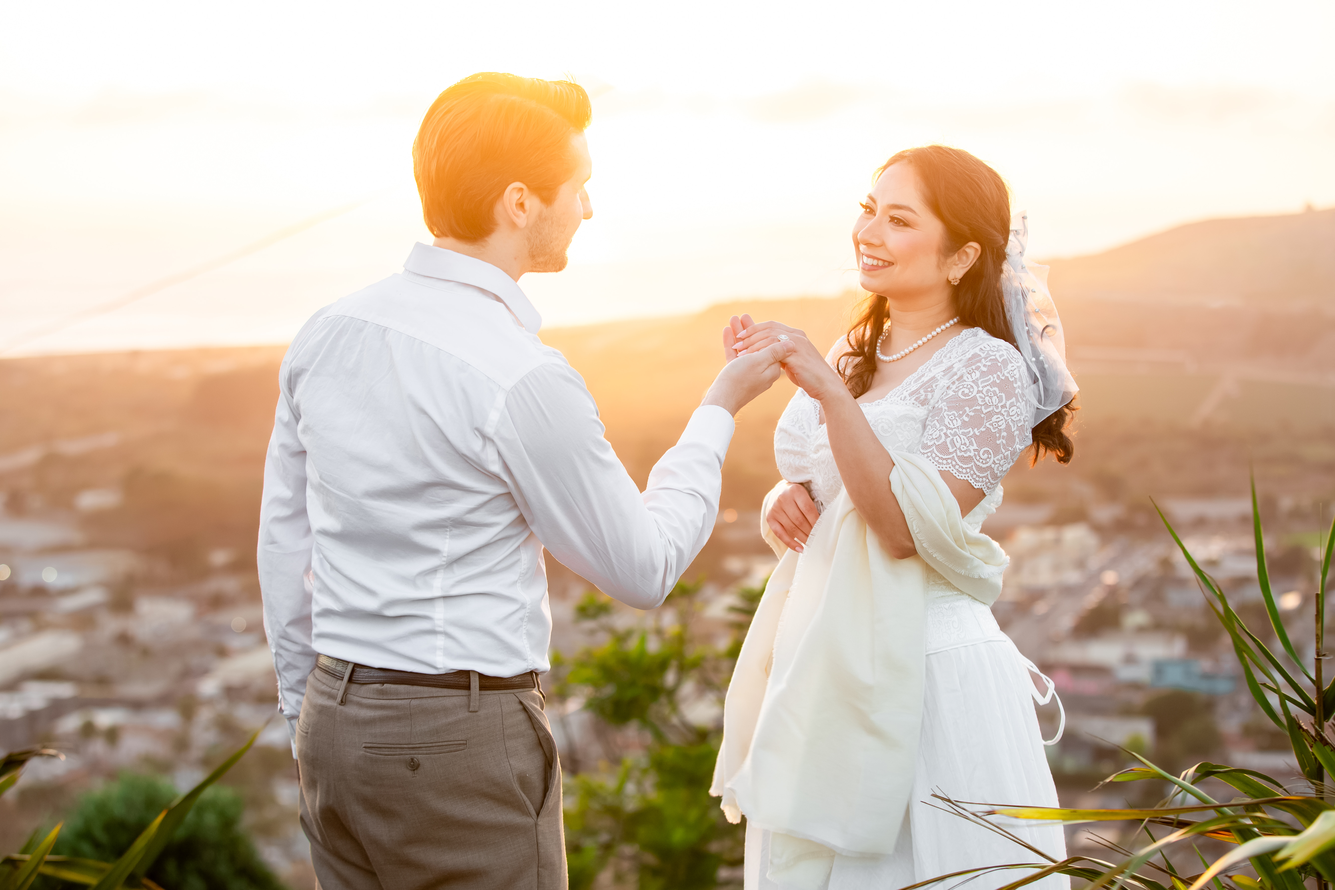
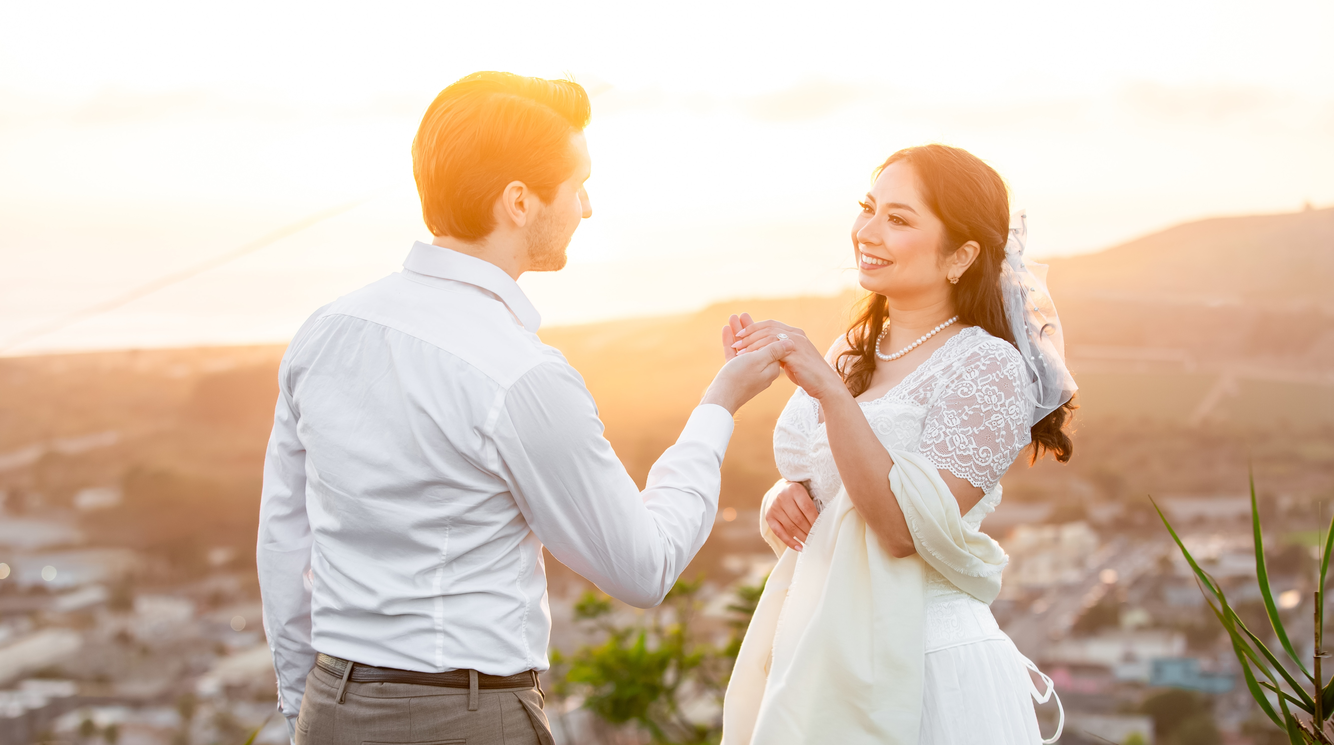
Adjusted text for readability. Minor cropping of hero image.

diff --git a/rsvp.html b/rsvp.html
@@ -25,7 +25,8 @@
         <div class="centered-content">
             <p style="font-size: 1.2rem; margin-bottom: 2rem;">
                 We hope you can join us for our special day! Please reply to us as soon as possible with your 
-                preferred mailing address so we can send an official invitation for the wedding.
+                preferred mailing address so we can send an official invitation for the wedding when the time
+                comes.
             </p>
         </div>
 
@@ -51,13 +52,13 @@
                     
                     <div style="background-color: white; padding: 1.5rem; border-radius: 4px; border-left: 4px solid var(--primary-color); margin-top: 1rem;">
                         <p><strong>To:</strong> holmrewers@gmail.com</p>
-                        <p><strong>Subject:</strong> Request our Invite - [Your Names]</p>
+                        <p><strong>Subject:</strong> Invitation Address - [Your Names]</p>
                         
                         <div style="margin-top: 1.5rem; line-height: 1.8;">
                             <p>Dear Jackie and Patrick,</p>
                             
                             <p style="margin-top: 1rem;">
-                                <strong>Attendance Status:</strong> [We joyfully accept / We regretfully decline]
+                                <strong>Attendance Status:</strong> [We currently plan to attend / We do not currently plan to attend]
                             </p>
                             
                             <p style="margin-top: 1rem;">
@@ -67,23 +68,9 @@
                             </p>
                             
                             <p style="margin-top: 1rem;">
-                                <strong>Number of Guests Attending:</strong> [Number]
-                            </p>
-                            
-                            <p style="margin-top: 1rem;">
                                 <strong>Mailing Address:</strong><br>
                                 [Street Address]<br>
                                 [City, State ZIP]
-                            </p>
-                            
-                            <p style="margin-top: 1rem;">
-                                <strong>Dietary Restrictions/Allergies:</strong><br>
-                                [Please list any dietary restrictions, food allergies, or special meal requirements]
-                            </p>
-                            
-                            <p style="margin-top: 1rem;">
-                                <strong>Song Request (Optional):</strong><br>
-                                [What song will get you on the dance floor?]
                             </p>
                             
                             <p style="margin-top: 1rem;">
@@ -94,7 +81,7 @@
                     </div>
                     
                     <div style="text-align: center; margin-top: 2rem;">
-                        <a href="mailto:holmrewers@gmail.com?subject=Saving the Date%20-%20[Your%20Names]&body=Dear%20Sarah%20and%20Michael,%0D%0A%0D%0AAttendance%20Status:%20[We%20joyfully%20accept%20/%20We%20regretfully%20decline]%0D%0A%0D%0AGuest%20Name(s):%0D%0A[Full%20name%20of%20guest%201]%0D%0A[Full%20name%20of%20guest%202,%20if%20applicable]%0D%0A%0D%0ANumber%20of%20Guests%20Attending:%20[Number]%0D%0A%0D%0AMailing%20Address:%0D%0A[Street%20Address]%0D%0A[City,%20State%20ZIP]%0D%0A%0D%0ADietary%20Restrictions/Allergies:%0D%0A[Please%20list%20any%20dietary%20restrictions,%20food%20allergies,%20or%20special%20meal%20requirements]%0D%0A%0D%0ASong%20Request%20(Optional):%0D%0A[What%20song%20will%20get%20you%20on%20the%20dance%20floor?]%0D%0A%0D%0AWith%20love,%0D%0A[Your%20names]" class="button">Click to Open Email Template</a>
+                        <a href="mailto:holmrewers@gmail.com?subject=Invitation%20Address%20-%20[Your%20Names]&body=Dear%20Jackie%20and%20Patrick,%0D%0A%0D%0AAttendance%20Status:%20[We%20currently%20plan%20to%20attend/We%20do%20not%20currently%20plan%20to%20attend]%0D%0A%0D%0AGuest%20Name(s):%0D%0A[Full%20name%20of%20guest%201]%0D%0A[Full%20name%20of%20guest%202,%20if%20applicable]%0D%0A%0D%0AMailing%20Address:%0D%0A[Street%20Address]%0D%0A[City,%20State%20ZIP]%0D%0A%0D%0AWith%20love,%0D%0A[Your%20names]" class="button">Click to Open Email Template</a>
                     </div>
                 </div>
             </div>
@@ -105,22 +92,13 @@
             
             <div class="card">
                 <h3>1. Attendance Status</h3>
-                <p>Please let us know if you'll be able to join us or if you must decline. We understand that circumstances change, and we appreciate any response.</p>
+                <p>Please let us know if you currently to join us or if you must decline. We understand that circumstances change, and we appreciate any response.</p>
                 
                 <h3 style="margin-top: 1.5rem;">2. Full Names</h3>
                 <p>Please provide the full names of all guests attending from your party. This helps us create accurate place cards and seating arrangements.</p>
                 
-                <h3 style="margin-top: 1.5rem;">3. Number of Guests</h3>
-                <p>Confirm the total number of people attending from your invitation. Please only include those listed on your save the date.</p>
-                
-                <h3 style="margin-top: 1.5rem;">4. Mailing Address</h3>
+                <h3 style="margin-top: 1.5rem;">3. Mailing Address</h3>
                 <p>We need your current mailing address to send thank-you notes and any future correspondence.</p>
-                
-                <h3 style="margin-top: 1.5rem;">5. Dietary Restrictions</h3>
-                <p>Please inform us of any dietary restrictions, food allergies, or special meal requirements. We want to ensure everyone can enjoy the meal! Common restrictions include vegetarian, vegan, gluten-free, dairy-free, nut allergies, shellfish allergies, etc.</p>
-                
-                <h3 style="margin-top: 1.5rem;">6. Song Request (Optional)</h3>
-                <p>Help us create the perfect playlist! Let us know what song will get you out on the dance floor.</p>
             </div>
         </section>
 
@@ -128,7 +106,6 @@
             <div class="warning-box">
                 <h3 style="margin-top: 0;">Important Reminders</h3>
                 <ul style="margin-left: 2rem; line-height: 1.8;">
-                    <li><strong>Guest Count:</strong> Please only include guests specifically named on your invitation</li>
                     <li><strong>Changes:</strong> If your plans change after you send your email, please let us know as soon as possible</li>
                     <li><strong>Questions:</strong> If you have any questions about your invitation or need clarification, please 
                         reach out to us
@@ -147,20 +124,6 @@
                 </p>
                 <p style="text-align: center; margin-top: 1rem;">
                     Even if you can't be there in person, you'll be in our hearts on our special day.
-                </p>
-            </div>
-        </section>
-
-        <section class="content-section">
-            <div class="info-box">
-                <h3 style="margin-top: 0;">After Your Email</h3>
-                <p>
-                    Once we receive your confirmation, we will send you a confirmation email. As the wedding date approaches, 
-                    we will send the official wedding invitation, additional details about the ceremony, reception timeline, 
-                    and any other important information.
-                </p>
-                <p style="margin-top: 1rem;">
-                    If you don't receive a confirmation within two weeks, please reach out to ensure we received your response.
                 </p>
             </div>
         </section>

diff --git a/dress-code.html b/dress-code.html
@@ -26,10 +26,10 @@
         
         <div class="centered-content">
             <p style="font-size: 1.2rem; margin-bottom: 3rem;">
-                We request <strong>formal attire</strong> for our wedding celebration. Think elegant cocktail 
-                dresses, suits, and dress shoes. We want everyone to feel comfortable and confident while 
+                We request <strong>cocktail to formal attire</strong> for our wedding celebration. Think elegant 
+                cocktail dresses, suits, and dress shoes. We want everyone to feel comfortable and confident while 
                 looking their best! If you are unsure of what cocktail to formal attire looks like (because 
-                honestly, who does), <a href=https://www.theknot.com/content/wedding-guest-attire-cheat-sheet>The Knot</a> 
+                honestly, who does), <a href="https://www.theknot.com/content/wedding-guest-attire-cheat-sheet" target="_blank" and rel="noopener noreferrer">The Knot</a> 
                 has a great resource to look at. 
             </p>
         </div>
@@ -103,19 +103,19 @@
             <div class="gallery">
                 <div class="gallery-item appropriate">
                     <img src="appropriate-mask-1.png" alt="Appropriate mask - White and blue formal mask with handle">
-                    <p>Formal colorful masks with or without handles</p>
+                    <p><strong>Appropriate</strong>: Formal colorful masks with or without handles</p>
                 </div>
                 <div class="gallery-item appropriate">
                     <img src="appropriate-mask-2.png" alt="Appropriate mask - Lacy black mask">
-                    <p>Simple but formal masks that can be tied or secured with elastic</p>
+                    <p><strong>Appropriate</strong>: Simple but formal masks that can be tied or secured with elastic</p>
                 </div>
                 <div class="gallery-item inappropriate">
                     <img src="inappropriate-mask-1.png" alt="Inappropriate mask - Phantom mask">
-                    <p>A Phantom mask</p>
+                    <p><strong>Inappropriate</strong>: A Phantom mask</p>
                 </div>
                 <div class="gallery-item inappropriate">
                     <img src="inappropriate-mask-2.png" alt="Inappropriate mask - costume mask">
-                    <p>Any other costume mask</p>
+            <p><strong>Inappropriate</strong>: Any other costume mask</p>
                 </div>
             </div>
         </section>

diff --git a/qa.html b/qa.html
@@ -75,7 +75,7 @@
             <div class="qa-answer">
                 We are so excited to celebrate this special day surrounded by our family and friends. Only those formally invited 
                 on your wedding invitation can be accommodated. If you have a plus one, it will be noted on your personal 
-                Save the Date.
+                invitation.
             </div>
         </div>
 
@@ -86,7 +86,7 @@
                 notice means you are still able to share our big day.</p>
 
                 <p>We are hoping to have a more causal gathering the day before to have a chance to all actually hang out. If 
-                we do have a relaxed get together the the Friday before the wedding, we would love to have anyone under 21 
+                we do have a relaxed get together the Friday before the wedding, we would love to have anyone under 21 
                 join us if they are able.</p>
             </div>
         </div>
@@ -94,9 +94,9 @@
         <div class="qa-item">
             <div class="qa-question">Where can I stay?</div>
             <div class="qa-answer">
-                <p>We have a hotel block with the Palm Garden Hotel in Thousand Oaks. This hotel is about 15 minutes 
-                from the venue. If you would like more information about the hotel block, please 
-                <a href=hotels.html>click here!</a> Staying at the Palm Garden Hotel is not required. Please use 
+          <p>We have a hotel block with the <a href="https://www.palmgardenhotel.com" target="_blank" and rel="noopener noreferrer">Palm Garden Hotel</a> in Thousand Oaks. This hotel is about 15 minutes 
+                from the venue. If you would like more information about the hotel block, please <a href=hotels.html>click here!</a></p> 
+                <p>Staying at the Palm Garden Hotel is not required. Please use 
                 Underwood Family Farms' address, 3370 Sunset Valley Rd, Moorpark, CA 93021, as a reference, if you 
                 are interested in other accommodations.</p>
 

diff --git a/hotels.html b/hotels.html
@@ -27,7 +27,8 @@
         <div class="centered-content">
             <p style="font-size: 1.2rem; margin-bottom: 3rem;">
                 You are welcome to choose any housing accomodation that suits you. However, for your convenience, we have secured 
-                a hotel block with The Palm Garden Hotel to provide quality accomodations at a better rate.
+                a hotel block with The Palm Garden Hotel to provide quality accomodations at a better rate. Please note that the
+                provided rates do not include tax.
             </p>
         </div>
 
@@ -58,6 +59,7 @@
                 
                 <div style="margin-top: 1.5rem; margin-bottom: 2rem">
                     <a href="tel:805716429" class="button" style="margin-right: 1rem;">Call to Book</a>
+                    <a href="https://www.palmgardenhotel.com" target="_blank" and rel="noopener noreferrer" class="button" style="margin-right: 1rem;">Visit Website</a>
                 </div>
 
                 <div class="iframe-container">
@@ -87,7 +89,7 @@
                 <ul style="margin-left: 2rem; line-height: 1.8; margin-top: 1rem;">
                     <li><strong>29th Annual Fall Harvest Festival:</strong> Walk the corn maze, carve pumpkins, and enjoy many other great seasonal activities</li>
                     <li><strong>Oceanside Fun:</strong> Enjoy one of the many beautiful beaches on the Southern California coastline</li>
-                    <li><strong>Haunted House:</strong> Get into the holiday spirit with one of the best haunted houses in SoCal</li>
+            <li><strong>Haunted House:</strong> Get into the holiday spirit by visiting the award-winnning <a href="https://rothauntedhouse.com" target="_blank" and rel="noopener noreferrer">Reign of Terror</a> haunted house</li>
                 </ul>
             </div>
         </section>

diff --git a/registry.html b/registry.html
@@ -61,11 +61,10 @@
                 <h2>Honeymoon Fund</h2>
                 <div class="card">
                     <p style="text-align: center;">
-                        We're planning an unforgettable honeymoon! If you'd like to contribute to our first adventure as a married couple, 
-                        we have set up a honeymoon fund. Your contribution will help us create memories that will last a lifetime.
+                        We're planning an unforgettable wedding and honeymoon! Your contribution will help us create memories that will last a lifetime.
                     </p>
                     <div style="text-align: center; margin-top: 1.5rem;">
-                        <a href="https://account.venmo.com/u/Jacqueline_Holm" target="_blank" class="button">Contribute to Honeymoon</a>
+                        <a href="https://account.venmo.com/u/Jacqueline_Holm" target="_blank" class="button">Contribute</a>
                     </div>
                 </div>
             </div>
